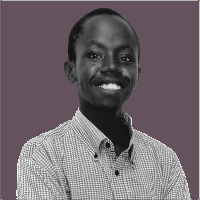
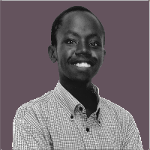
changed index page

diff --git a/index.html b/index.html
@@ -54,7 +54,7 @@
 
 			
 				<center>
-					<img src="img/ed-1.png" class="passport rounded-circle mx-auto d-block" alt="cool passport">
+					<img src="img/ed.png" class="passport rounded-circle mx-auto d-block" alt="cool passport">
 					<div class="cool-titles">
 						<div class="header-small"> Software Developer</div>
 						<div class="header-big">EDWARD NJOROGE</div>	
